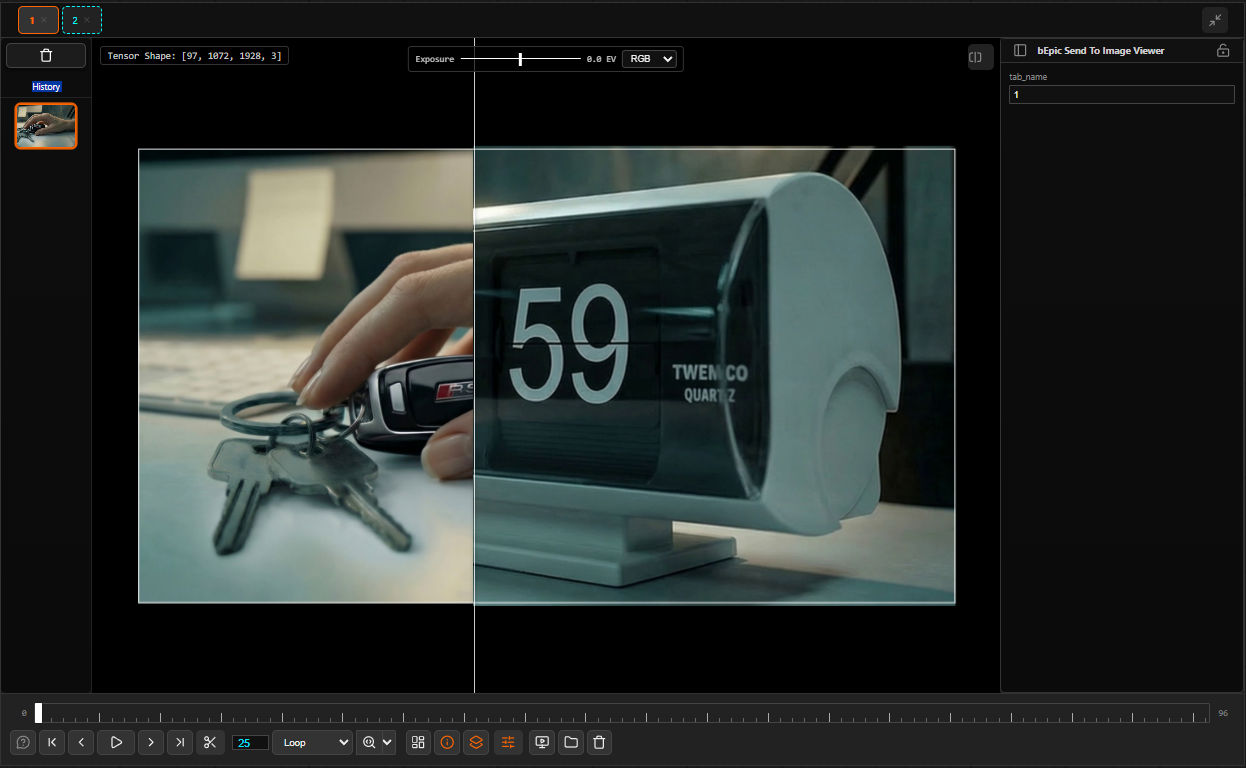
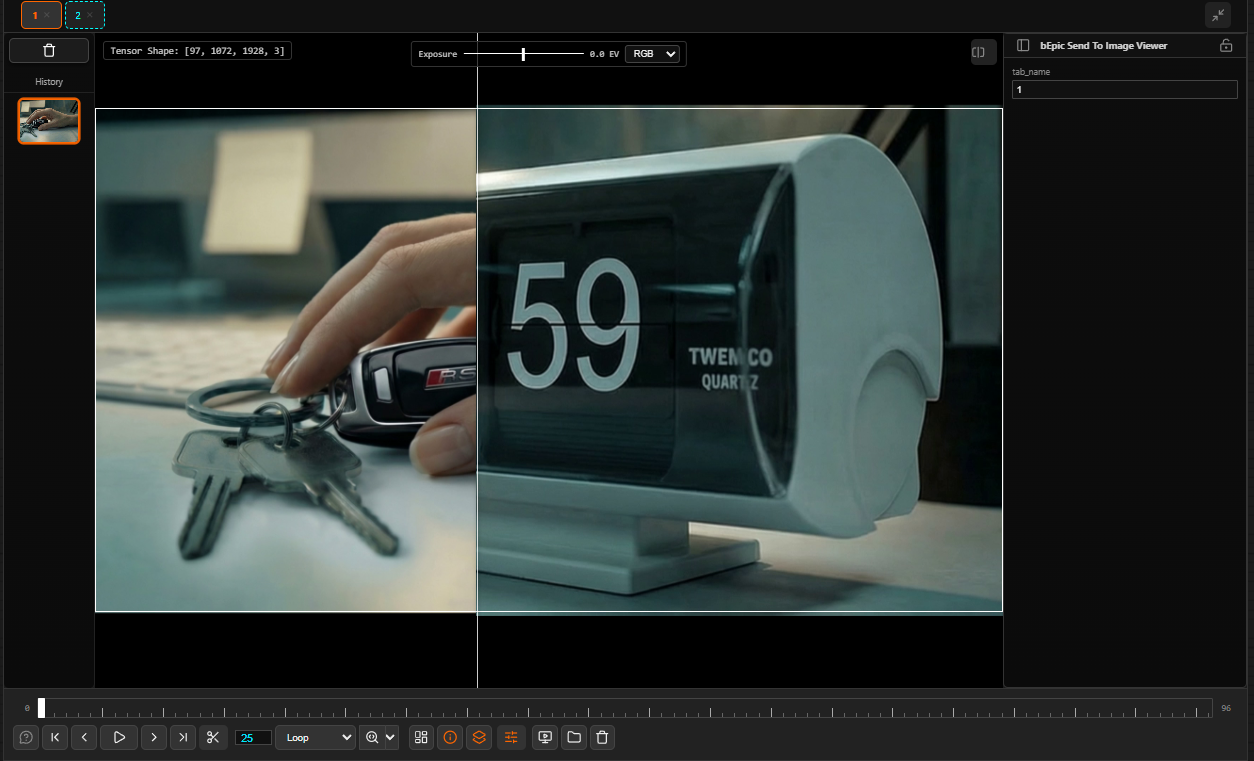
updated docs

diff --git a/docs/sub/getting-started.md b/docs/sub/getting-started.md
@@ -6,15 +6,6 @@ Get bEpic ImageViewer running in ComfyUI in under two minutes using either Comfy
 
 ---
 
-## Requirements
-
-| Requirement | Details |
-|---|---|
-| ComfyUI | Any recent build (the extension uses the standard custom-node API) |
-| Python | 3.8+ (same as ComfyUI) |
-| Browser | Chrome 90+, Edge 90+, Firefox 90+ (Web Components / Shadow DOM required) |
-| Python packages | `torch`, `numpy`, `Pillow` — all standard ComfyUI dependencies |
-
 ## Method 1 — ComfyUI Manager (Recommended)
 
 1. Open ComfyUI in your browser and click the **Manager** button in the top menu.
@@ -47,36 +38,16 @@ Once installed, the viewer panel is toggled from the ComfyUI action bar. Look fo
 
 The panel opens at a default position (top-right, 30 vw × 30 vh). You can resize it by dragging any of its eight edges or corners, and move it by dragging its title bar area.
 
-## Your First Workflow
+## Sending images to the Viewer
 
 1. In the ComfyUI node editor, right-click and search for **bEpic Send To Image Viewer**. Add it to your canvas.
-2. Connect the `IMAGE` output of any node (e.g. a VAE Decode) to the `input` pin of the bEpicSendToViewer node.
+2. Connect the `IMAGE` output of any node (e.g. a VAE Decode, REMBG node) to the `input` pin of the bEpicSendToViewer node.
 3. Optionally type a name in the `tab_name` field — this becomes the tab label in the viewer (e.g. `final_output`).
 4. Click **Queue Prompt** (or press <kbd>Alt</kbd>+<kbd>Enter</kbd> while hovering the viewer). The image appears in a new tab immediately.
 
 > [!TIP]
 > You can add multiple bEpicSendToViewer nodes to the same workflow — each with a different `tab_name` — to monitor several stages of your pipeline simultaneously (e.g. `latent`, `upscale`, `final`).
 
-## Verifying the Backend
-
-The extension exposes a health-check endpoint. Navigate to:
-
-```
-http://127.0.0.1:8188/bepic/health
-```
-
-You should receive a `200 OK` response. If you get a 404, the extension did not load — check your ComfyUI console for import errors.
-
-## Updating
-
-If you installed via Manager, use the **Update Custom Nodes** option. For a manual install:
-
-```bash
-cd /path/to/ComfyUI/custom_nodes/ComfyUI-ImageViewer
-git pull
-```
-
-Then restart ComfyUI.
 
 ---
 

diff --git a/docs/sub/interface.md b/docs/sub/interface.md
@@ -11,28 +11,13 @@ A guided tour of every region of the viewer panel — from the title bar at the 
 
 ## Panel Layout
 
-```
-┌─────────────────────────────────────────────────────────────┐
-│  [tab 1 ●]  [tab 2]  [+]                     [⊞] [↗] [?]  │  ← Tab bar
-├────────┬────────────────────────────────────┬────────────────┤
-│        │  Tensor: [1, 847, 1024, 3]          │                │
-│        │            [Exposure ───●────] 0EV  │                │
-│  HIST  │                                     │     PARAMS     │
-│  ORY   │                                     │     PANEL      │
-│        │           V I E W P O R T           │                │
-│  [▓▓]  │                                     │  node widgets  │
-│  [  ]  │                                     │  …             │
-│  [  ]  │                                     │                │
-├────────┴────────────────────────────────────┴────────────────┤
-│  ⏮ ◁ ▶ ▷ ⏭  [════════●══════════════] fps 25  Loop ▾  icons │  ← Playback
-└─────────────────────────────────────────────────────────────┘
-```
+![bEpic ImageViewer main interface](screenshot_01.png)
 
 ## Regions Explained
 
 ### Tab Bar
 
-The topmost strip holds one tab per image source. The **active tab** is highlighted orange. Tabs appear automatically when a bEpicSendToViewer node runs or when you open a folder via the file browser.
+The topmost strip holds the tabs. The **active tab** is highlighted orange. Tabs appear automatically when a bEpicSendToViewer node runs or when you open a folder via the file browser. Change the name of the tabs by changing the `tab_name` in the **bEpic Send To Image Viewer** node.
 
 | Action | How |
 |---|---|
@@ -55,12 +40,10 @@ The central image display area. Supports:
 
 - **Pan** — click and drag when zoomed in.
 - **Zoom** — choose a preset (Fit, 100%, 75%, 50%) from the dropdown, or press <kbd>F</kbd> to toggle fit-to-screen.
-- **Channel overlays** — red, green, or blue isolation rendered with CSS SVG filters.
-- **Compare layer** — a second image layer appears in comparison mode.
 
 ### Tensor Shape Overlay
 
-A small cyan label in the top-left of the viewport displays the tensor dimensions of the current image, e.g. `[1, 847, 1024, 3]` or `[8, 512, 512, 3]` for a batch. Toggle visibility with the **Shape** button or press <kbd>S</kbd>.
+A small cyan label in the top-left of the viewport displays the tensor dimensions of the current image or sequence. Toggle visibility with the **Shape** button or press <kbd>S</kbd>.
 
 ### Exposure & Channel Bar
 

diff --git a/docs/index.md b/docs/index.md
@@ -3,7 +3,6 @@
 A professional floating image viewer for ComfyUI — multi-tab, history snapshots, side-by-side comparison, playback timeline, exposure/channel controls, and a live parameter panel.
 
 ![bEpic ImageViewer main interface](screenshot_01.png)
-*The viewer floating over a ComfyUI workspace — history panel left, viewport centre, parameter panel right.*
 
 ---
 
@@ -32,7 +31,7 @@ All viewer state — open tabs, history stacks, panel positions, layouts — is 
 
 ## Quick Start
 
-1. Install the extension via ComfyUI Manager or clone into `custom_nodes/`. See [Installation & Setup](sub/getting-started.md).
+1. Install the extension via ComfyUI Manager or git clone into `custom_nodes/`. See [Installation & Setup](sub/getting-started.md).
 2. Click **Toggle bEpic Image Viewer** in the ComfyUI action bar to open the panel.
 3. Add a **bEpic Send To Image Viewer** node to your workflow and connect any image output to its `input` pin.
 4. Set an optional `tab_name` on the node, then run your workflow. The image appears in the viewer instantly.
@@ -52,3 +51,11 @@ All viewer state — open tabs, history stacks, panel positions, layouts — is 
 | [Advanced Features](sub/advanced.md) | File browser, undocking, layouts, cache management |
 | [Node Reference](sub/nodes.md) | Full input/output spec for the bEpicSendToViewer node |
 | [Keyboard Shortcuts](sub/hotkeys.md) | Complete hotkey reference |
+
+
+
+![bEpic ImageViewer main interface](screenshot_01.png)
+![bEpic ImageViewer main interface](screenshot_02.png)
+![bEpic ImageViewer main interface](screenshot_03.png)
+![bEpic ImageViewer main interface](screenshot_04.png)
+![bEpic ImageViewer main interface](screenshot_05.png)

diff --git a/docs/sub/channels-exposure.md b/docs/sub/channels-exposure.md
@@ -12,12 +12,6 @@ The viewer's exposure and channel controls let you inspect image data the way a 
 ## Exposure Control
 
 The exposure slider ranges from **−4 EV** to **+4 EV** and adjusts display brightness using a CSS `brightness()` filter — the underlying image data is **never modified**.
-
-```
-darker ←──────────────────────────────→ brighter
-  −4 EV    −2 EV    0 EV    +2 EV    +4 EV
-           [══════════●══════════]
-                      ↑ knob
 ```
 
 Use it to: